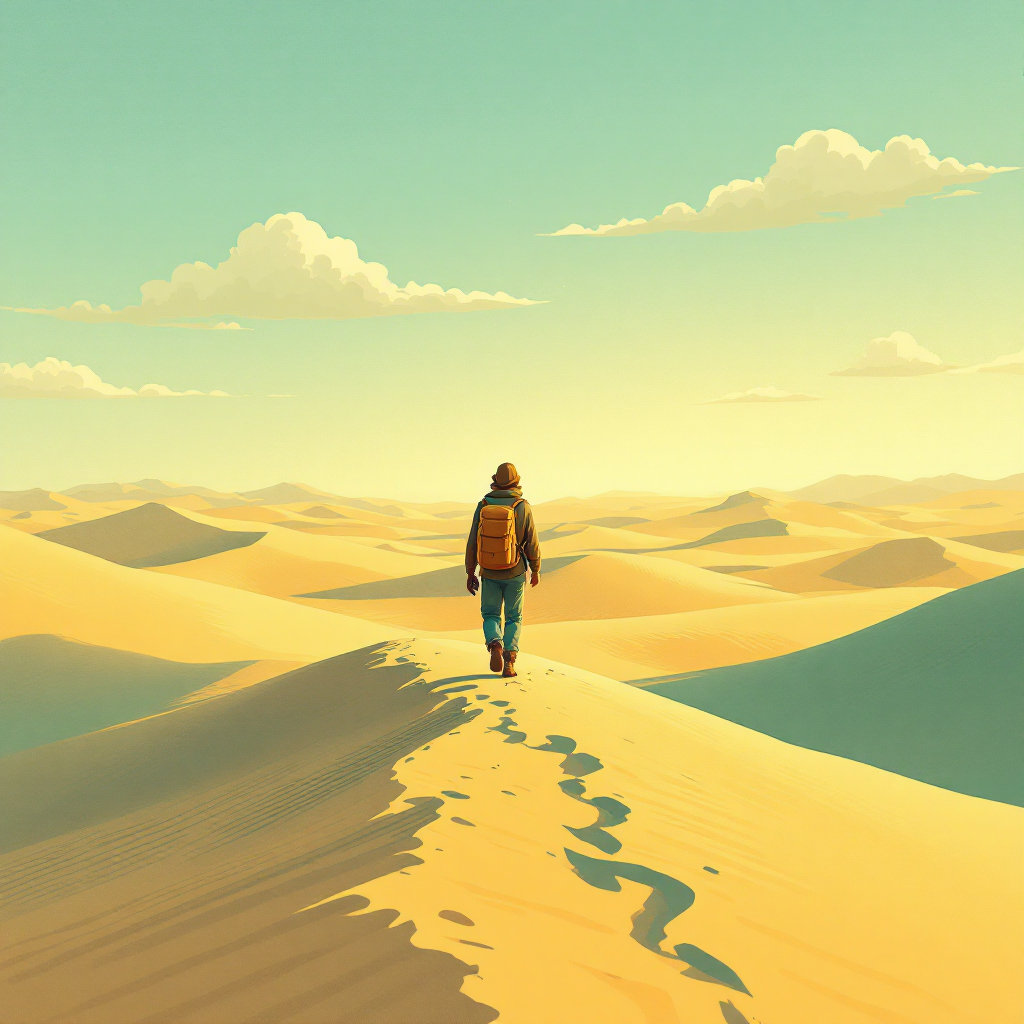
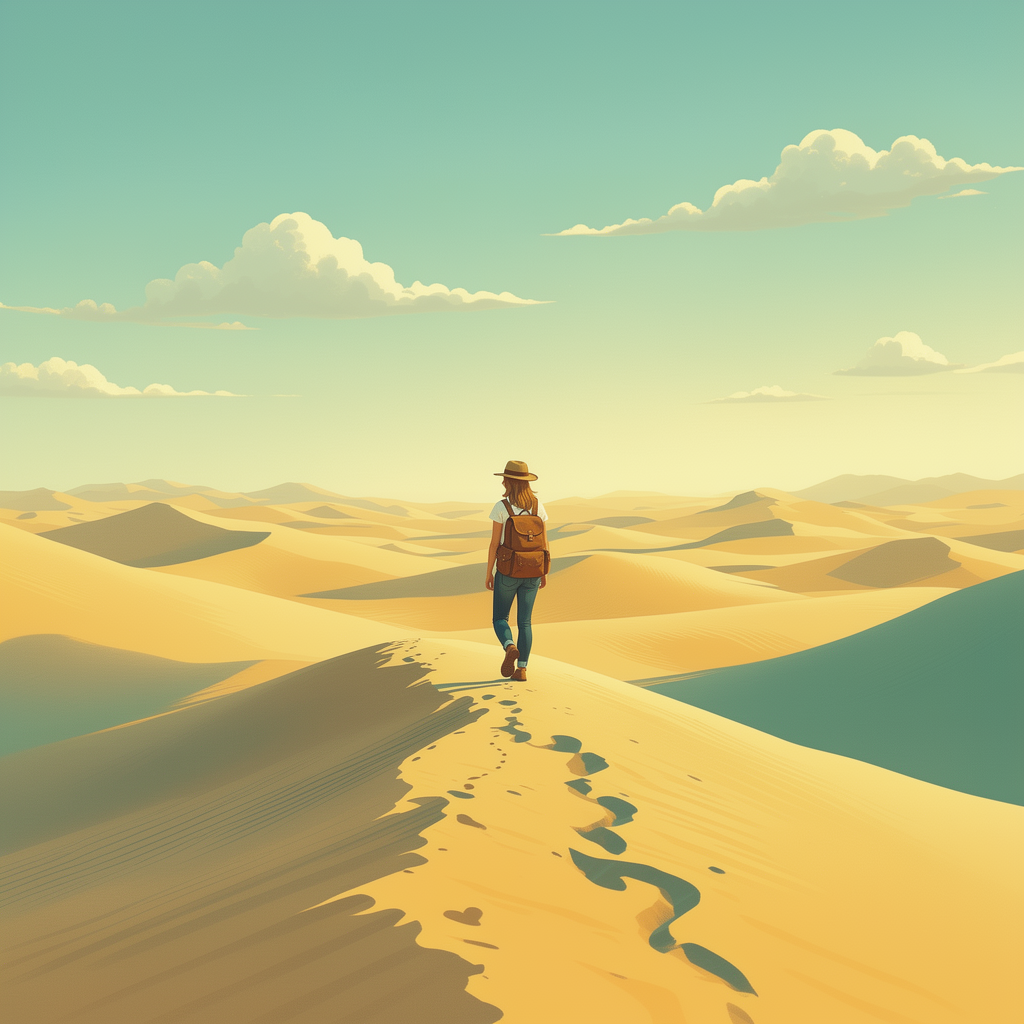
Update journey section images and copy (MIT-36)
- Replace 4 journey stage images with new versions
- Update descriptions with more empathetic, equal-weight copy

diff --git a/src/components/JourneySection.tsx b/src/components/JourneySection.tsx
@@ -8,25 +8,25 @@ const cards = [
     id: "desert",
     image: desertImage,
     title: "Ørkenen",
-    description: "Noget føles forkert. Du er ikke alene. Du har ikke ord for det endnu.",
+    description: "Noget føles forkert. Du kan mærke det, før du kan forklare det. Du er ikke alene, mens du finder ordene.",
   },
   {
     id: "lake",
     image: lakeImage,
     title: "Søen",
-    description: "Du fik diagnosen. Hvad nu? Du navigerer kaosset i en ny virkelighed.",
+    description: "Du har fået en diagnose. Hvad gør man så? Her kan du skabe overblik i alt det nye og høre andres oplevelser.",
   },
   {
     id: "plains",
     image: plainsImage,
     title: "Sletterne",
-    description: "Hverdagen er den svære del. Rutinen er det, der mangler kunne findes.",
+    description: "Hverdagen kan ofte være en svære del. Rutinerne er det, der kan skabe ro, og vi deler & bygger dem sammen i små skridt.",
   },
   {
     id: "mountain",
     image: mountainImage,
     title: "Bjerget",
-    description: "Du mestrer dig selv og din historie kan lyse vejen for andre.",
+    description: "Du kender dine mønstre og dine behov. Hvis du har lyst, kan din historier og erfaringer også blive et lys for andre.",
   },
 ];
 
